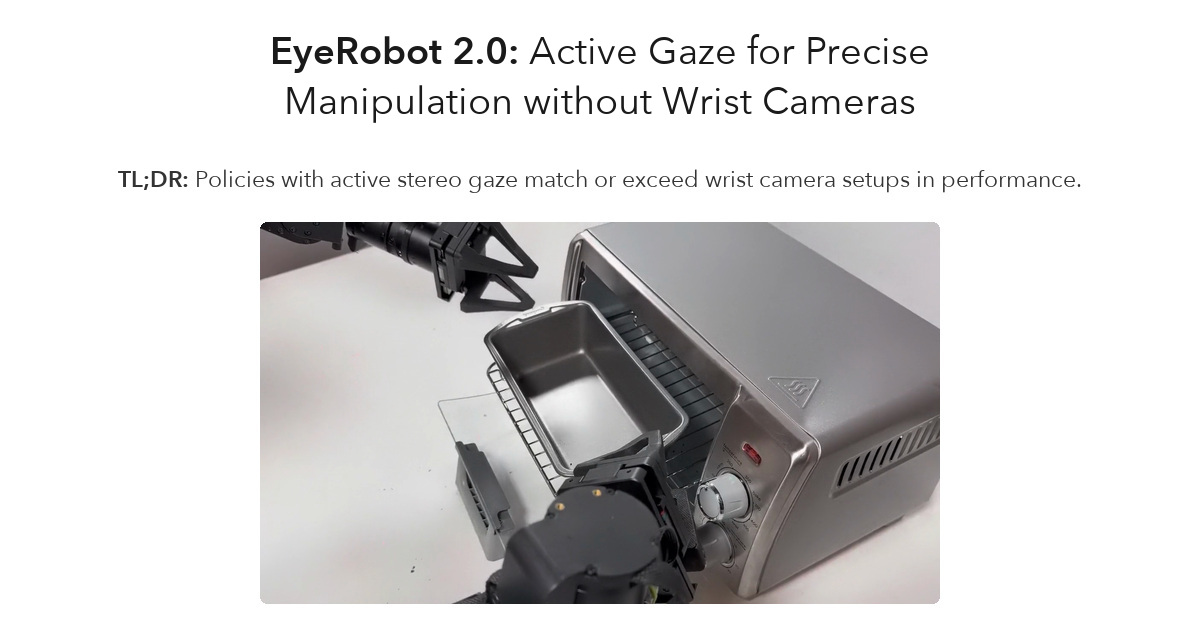
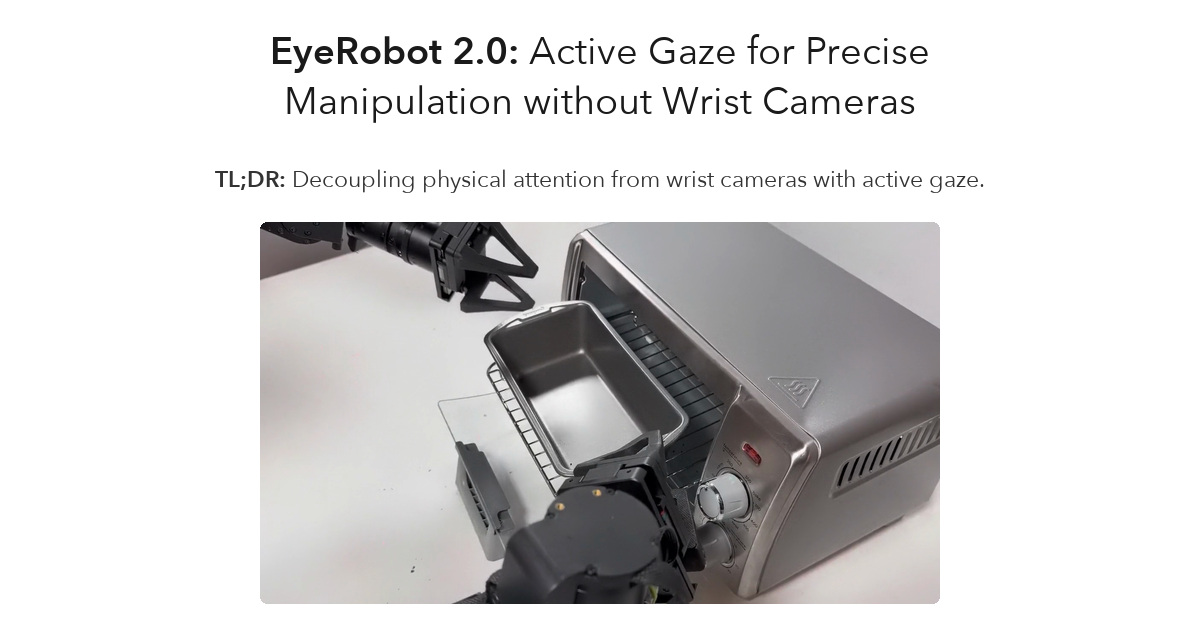
Align method overview, citation, and social preview with page content

Changed region(s): [[0.0925, 0.2714, 0.8942, 0.3016]]

diff --git a/index.html b/index.html
@@ -19,19 +19,19 @@
          not resolve relative paths. Bump the ?v= when the card is replaced,
          since the crawlers cache it aggressively.
     ==================================================================== -->
-    <meta content="Policies with active stereo gaze match or exceed wrist camera setups in performance." name="description" />
+    <meta content="Decoupling physical attention from wrist cameras with active gaze." name="description" />
     <meta content="EyeRobot 2.0: Active Gaze for Precise Manipulation without Wrist Cameras" property="og:title" />
-    <meta content="Policies with active stereo gaze match or exceed wrist camera setups in performance." property="og:description" />
-    <meta content="https://eyerobot2.github.io/data/social-card.jpg?v=b3f8b08be8c4" property="og:image" />
+    <meta content="Decoupling physical attention from wrist cameras with active gaze." property="og:description" />
+    <meta content="https://eyerobot2.github.io/data/social-card.jpg?v=686b251858e1" property="og:image" />
     <meta content="1200" property="og:image:width" />
     <meta content="630" property="og:image:height" />
-    <meta content="EyeRobot 2.0: Active Gaze for Precise Manipulation without Wrist Cameras. Policies with active stereo gaze match or exceed wrist camera setups in performance. Toaster rollout at 15 seconds, showing the robot manipulating the toaster." property="og:image:alt" />
+    <meta content="EyeRobot 2.0: Active Gaze for Precise Manipulation without Wrist Cameras. Decoupling physical attention from wrist cameras with active gaze. Toaster rollout at 15 seconds, showing the robot manipulating the toaster." property="og:image:alt" />
     <meta content="https://eyerobot2.github.io/" property="og:url" />
     <meta content="EyeRobot 2.0" property="og:site_name" />
     <meta content="EyeRobot 2.0: Active Gaze for Precise Manipulation without Wrist Cameras" name="twitter:title" />
-    <meta content="Policies with active stereo gaze match or exceed wrist camera setups in performance." name="twitter:description" />
-    <meta content="https://eyerobot2.github.io/data/social-card.jpg?v=b3f8b08be8c4" name="twitter:image" />
-    <meta content="EyeRobot 2.0: Active Gaze for Precise Manipulation without Wrist Cameras. Policies with active stereo gaze match or exceed wrist camera setups in performance. Toaster rollout at 15 seconds, showing the robot manipulating the toaster." name="twitter:image:alt" />
+    <meta content="Decoupling physical attention from wrist cameras with active gaze." name="twitter:description" />
+    <meta content="https://eyerobot2.github.io/data/social-card.jpg?v=686b251858e1" name="twitter:image" />
+    <meta content="EyeRobot 2.0: Active Gaze for Precise Manipulation without Wrist Cameras. Decoupling physical attention from wrist cameras with active gaze. Toaster rollout at 15 seconds, showing the robot manipulating the toaster." name="twitter:image:alt" />
     <meta property="og:type" content="website" />
     <meta content="summary_large_image" name="twitter:card" />
     <link rel="canonical" href="https://eyerobot2.github.io/" />
@@ -646,16 +646,16 @@
             <div class="separator"></div>
             <h1>How it works</h1>
             <p class="paragraph method-summary">EyeRobot 2.0 <strong>separates where to look from how to act</strong>. A target selector chooses an object, a gaze policy looks at it, and a gripper policy predicts actions from the resulting fixated stereo views. The target selector and gripper policy learn together, favoring gaze choices that make actions easier to predict.</p>
-            <nav class="method-overview" aria-label="Policy modules: select, look, act">
-                <a class="method-mini" href="#sequencing-gaze-for-manipulation">
-                    <svg viewBox="0 0 300 100" aria-hidden="true" focusable="false"><g fill="#e7eaec" stroke="none"><rect x="38" y="18" width="82" height="14" rx="4"/><rect x="38" y="42" width="54" height="14" rx="4"/><rect x="38" y="66" width="32" height="14" rx="4"/></g><rect x="38" y="18" width="82" height="14" rx="4" fill="#efc8af" stroke="none"/><path d="M136 25H165Q177 25 177 37V49H196"/><path d="M190 43L196 49L190 55"/><circle cx="228" cy="49" r="23" fill="#e3d7a7" stroke="none"/><circle cx="228" cy="49" r="12" fill="white" stroke="none"/></svg>
-                    <strong>Target selector <span aria-hidden="true">↗</span></strong>
-                    <span class="method-mini-description carousel-caption">Uses robot state to choose which object to look at next.</span>
-                </a>
+            <nav class="method-overview" aria-label="Policy modules: gaze policy, target selector, gripper policy">
                 <a class="method-mini" href="#learning-goal-conditioned-gaze">
                     <svg viewBox="0 0 300 100" aria-hidden="true" focusable="false"><path d="M144 38L223 49L144 72" fill="#edf3ef" stroke="none"/><g fill="white"><ellipse cx="81" cy="50" rx="23" ry="28"/><ellipse cx="133" cy="50" rx="23" ry="28"/></g><g fill="#536672" stroke="none"><ellipse cx="89" cy="50" rx="10" ry="14"/><ellipse cx="141" cy="50" rx="10" ry="14"/></g><circle cx="233" cy="49" r="23" fill="#e3d7a7" stroke="none"/><circle cx="233" cy="49" r="12" fill="white" stroke="none"/></svg>
                     <strong>Gaze policy <span aria-hidden="true">↗</span></strong>
                     <span class="method-mini-description carousel-caption">Uses stereo views and the selected object to control gaze depth and direction.</span>
+                </a>
+                <a class="method-mini" href="#sequencing-gaze-for-manipulation">
+                    <svg viewBox="0 0 300 100" aria-hidden="true" focusable="false"><g fill="#e7eaec" stroke="none"><rect x="38" y="18" width="82" height="14" rx="4"/><rect x="38" y="42" width="54" height="14" rx="4"/><rect x="38" y="66" width="32" height="14" rx="4"/></g><rect x="38" y="18" width="82" height="14" rx="4" fill="#efc8af" stroke="none"/><path d="M136 25H165Q177 25 177 37V49H196"/><path d="M190 43L196 49L190 55"/><circle cx="228" cy="49" r="23" fill="#e3d7a7" stroke="none"/><circle cx="228" cy="49" r="12" fill="white" stroke="none"/></svg>
+                    <strong>Target selector <span aria-hidden="true">↗</span></strong>
+                    <span class="method-mini-description carousel-caption">Uses robot state to choose which object to look at next.</span>
                 </a>
                 <a class="method-mini" href="#policy-architecture">
                     <svg viewBox="0 0 300 100" aria-hidden="true" focusable="false"><g fill="#e7efe9" stroke="none"><rect x="22" y="28" width="49" height="43" rx="6"/><rect x="81" y="28" width="49" height="43" rx="6"/></g><g fill="#c4b274" stroke="none"><circle cx="46" cy="49" r="10"/><circle cx="105" cy="49" r="10"/></g><g fill="white" stroke="none"><circle cx="46" cy="49" r="5"/><circle cx="105" cy="49" r="5"/></g><path d="M148 49H181M175 43L181 49L175 55"/><g transform="translate(208 35) rotate(-16)" opacity=".5"><path d="M-5-14H5Q7-14 7-12V-2H-7V-12Q-7-14-5-14Z" fill="#a2bfd7" stroke="none"/><path d="M-12-2H12V2H-12Z M-12 2H-5V19H-8Z M-9 5L-7 13V5Z M12 2H5V19H8Z M9 5L7 13V5Z" fill="#6e92af" fill-rule="evenodd" stroke="none"/></g><g transform="translate(242 43) rotate(-8)" opacity=".75"><path d="M-5-14H5Q7-14 7-12V-2H-7V-12Q-7-14-5-14Z" fill="#a2bfd7" stroke="none"/><path d="M-12-2H12V2H-12Z M-12 2H-5V19H-8Z M-9 5L-7 13V5Z M12 2H5V19H8Z M9 5L7 13V5Z" fill="#6e92af" fill-rule="evenodd" stroke="none"/></g><g transform="translate(276 51) rotate(0)" opacity="1"><path d="M-5-14H5Q7-14 7-12V-2H-7V-12Q-7-14-5-14Z" fill="#a2bfd7" stroke="none"/><path d="M-12-2H12V2H-12Z M-12 2H-5V19H-8Z M-9 5L-7 13V5Z M12 2H5V19H8Z M9 5L7 13V5Z" fill="#6e92af" fill-rule="evenodd" stroke="none"/></g></svg>
@@ -1859,9 +1859,8 @@
             <pre id="codecell0" style="white-space: pre-wrap; word-wrap: break-word; max-width: 100%; overflow-x: auto; padding: 1em; background: #f5f5f5; border-radius: 4px;">@article{2026eyerobot2,
   title={{EyeRobot 2.0}: Active Gaze for Precise Manipulation without Wrist Cameras},
   author={Hari, Kush* and Kerr, Justin* and Shivakumar, Nidhya and Mahapatra, Samarth and Sferrazza, Carmelo and Lei, Jiahui and Malik, Jitendra and Liu, C. Karen and Goldberg, Ken and Kanazawa, Angjoo},
-  journal={arXiv preprint arXiv:[ARXIV_ID]},
-  year={2026},
-  url={https://arxiv.org/abs/[ARXIV_ID]}
+  journal={arXiv preprint},
+  year={2026}
 }</pre>
         </div>
     </div>
